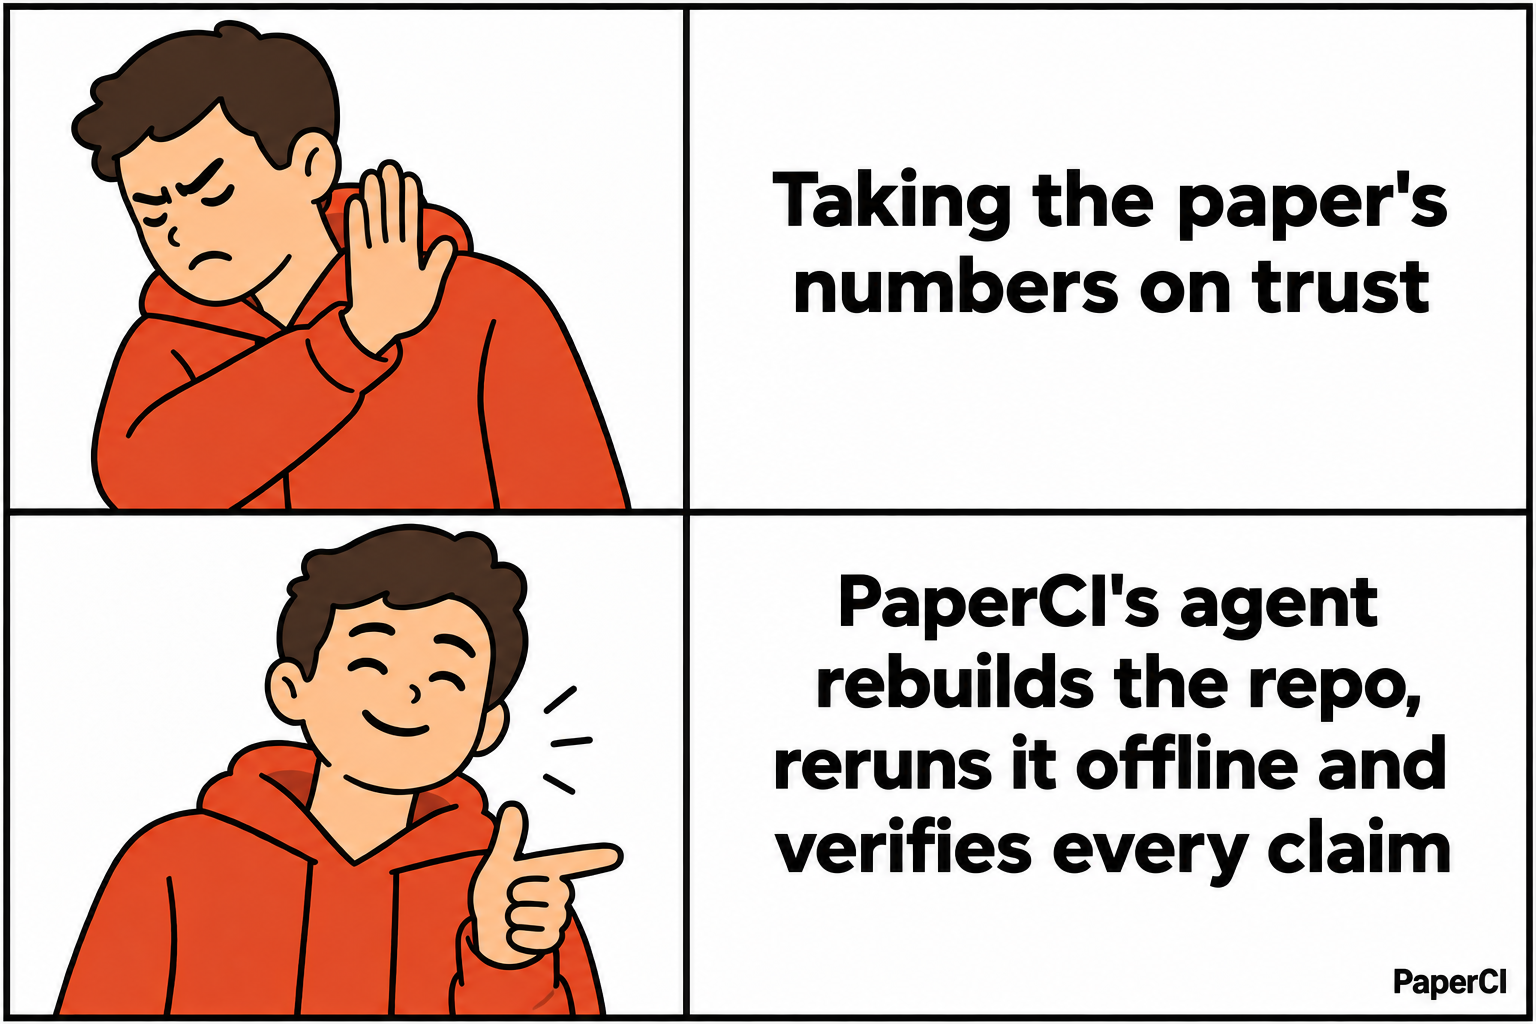
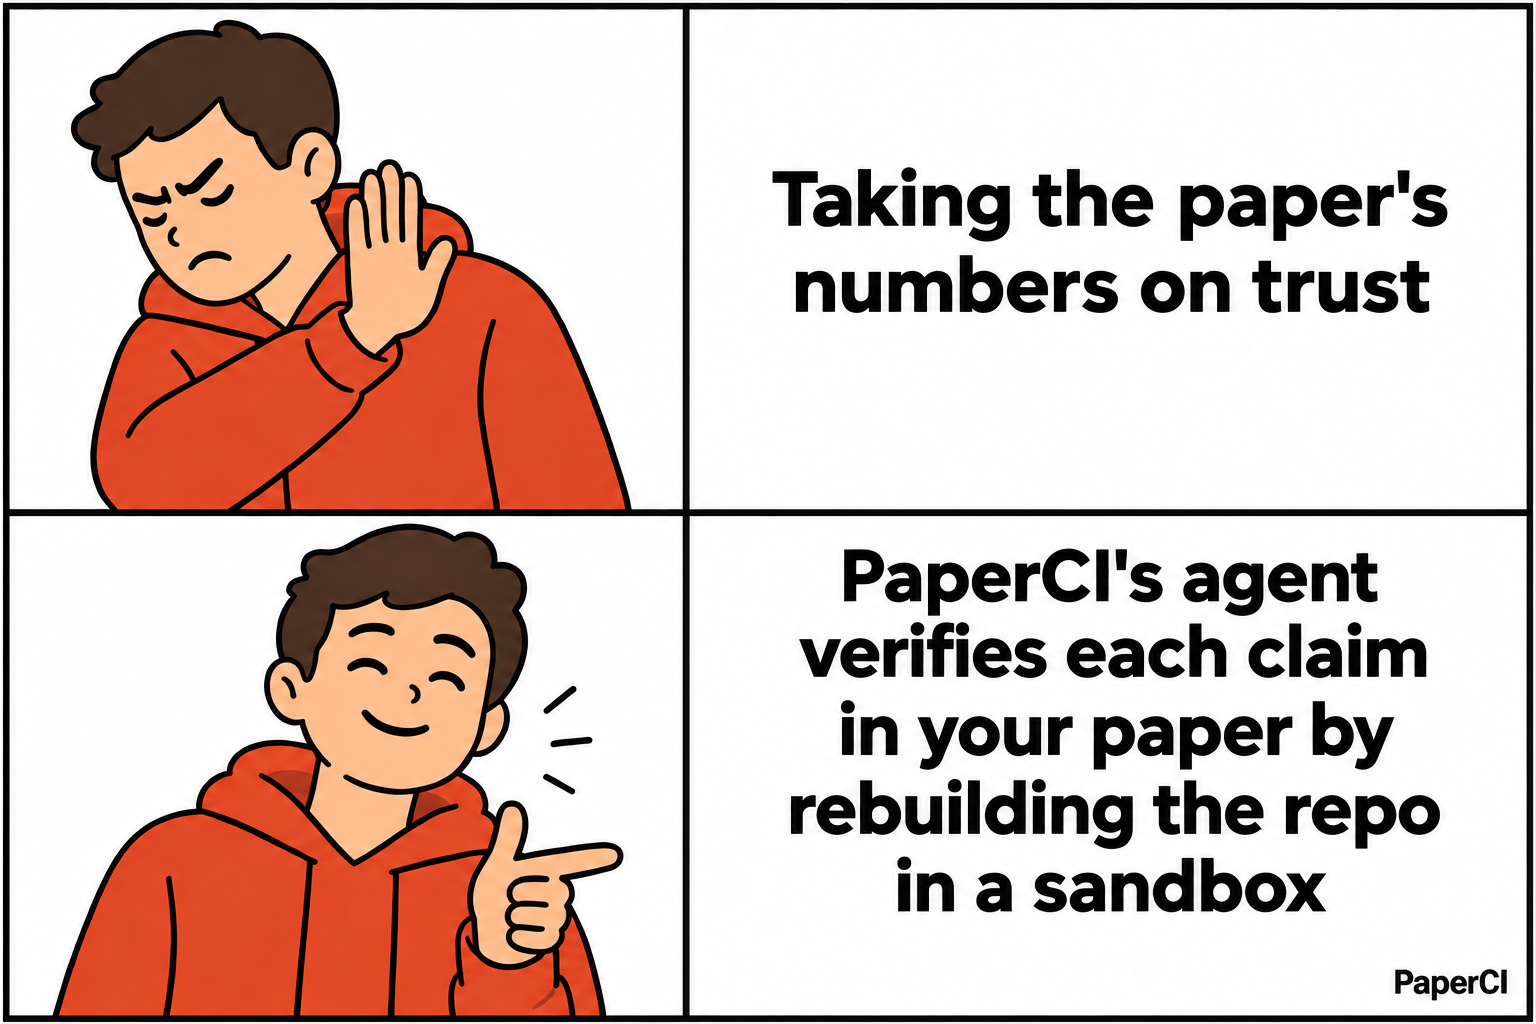
Meme: the agent verifies each claim by rebuilding the repo in a sandbox
Entire-Checkpoint: 01M4P75DN1G6X7VNSWK55A3D0R

diff --git a/README.md b/README.md
@@ -10,7 +10,7 @@ paper's authors._
 [Live board](https://paperci.vercel.app/board) · [ICML 2026 results, by paper](https://paperci.vercel.app/icml) ·
 [Technical write-up](TECHNICAL_WRITEUP.md)
 
-![Taking the paper's numbers on trust vs PaperCI's agent rebuilding the repo, rerunning it offline and verifying every claim](docs/img/memes/code-available.png)
+![Taking the paper's numbers on trust vs PaperCI's agent verifying each claim in your paper by rebuilding the repo in a sandbox](docs/img/memes/code-available.png)
 
 A pull request gets a bot that runs the tests on every change. A paper gets expert reviewers, and that review
 is valuable and not cheap: pre-submission review services charge **$200 to $800 per paper** (Enago lists
